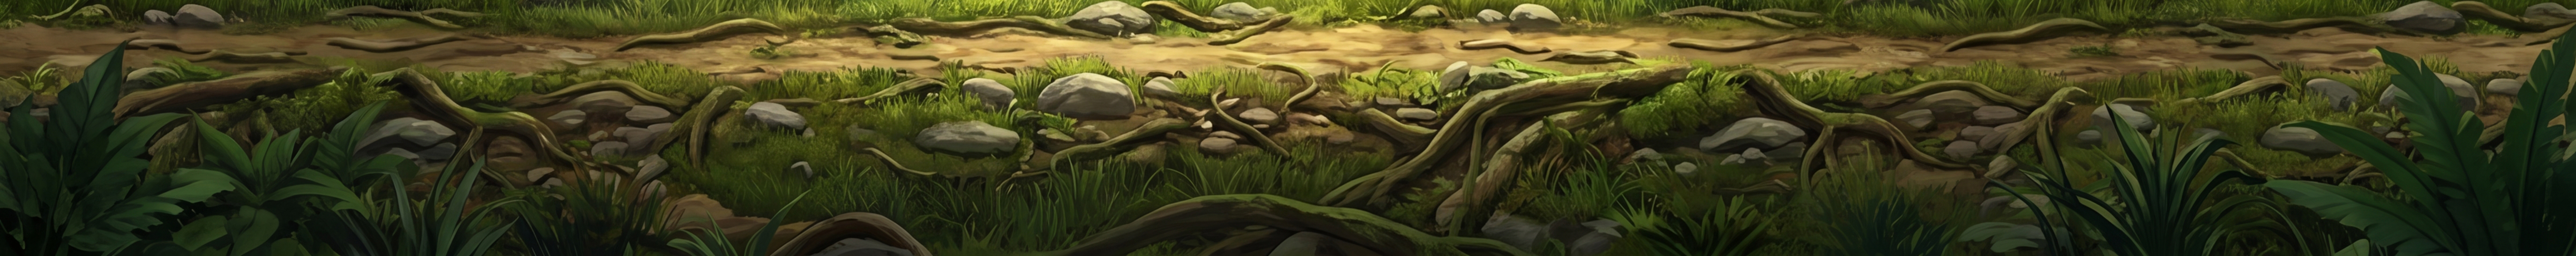
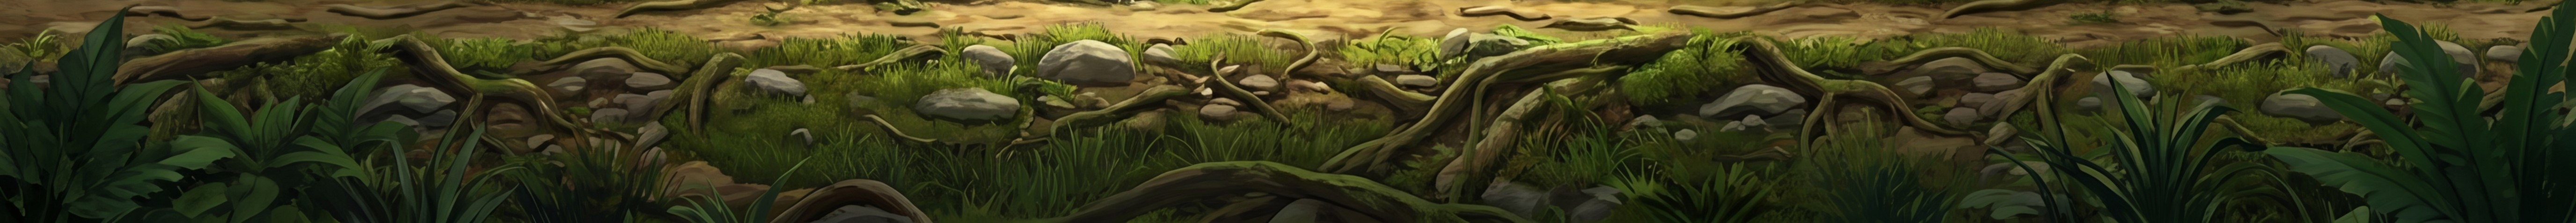
new level8

diff --git a/src/scenes/levels/Level1/L1_Scenery.js b/src/scenes/levels/Level1/L1_Scenery.js
@@ -1,0 +1,89 @@
+import { W, H } from '../../../config/GameConfig.js';
+
+// ════════════════════════════════════════════════════════════════════════════
+// L1_Scenery — Level 1's real-art background + forest-floor surface.
+//
+// BaseLevelScene builds a generic procedural/jungle_bg background and a green
+// tiled ground. Level 1 (and its bonus "fruit" scene) override those to use the
+// hand-painted art instead:
+//   • l1_bg      — full jungle scene (5504×3072) → parallax background
+//   • l1_surface — forest-floor strip (5504×547) → the walkable ground surface
+//
+// Physics is untouched: buildL1Ground re-creates the EXACT same invisible
+// collision tiles BaseLevelScene makes, then draws the new surface art over the
+// ground band. All the tuning knobs live in the constants below.
+// ════════════════════════════════════════════════════════════════════════════
+
+const BG_KEY       = 'l1_bg';
+const SURFACE_KEY  = 'l1_surface';
+const BG_SRC_H     = 3072;   // source height of l1_bg
+const SURFACE_SRC_H = 547;   // source height of l1_surface
+
+// ── Tuning knobs (adjust these to taste) ────────────────────────────────────
+const BG_PARALLAX   = 0.22;  // background scroll speed vs world (0 = static, 1 = locked to world)
+const BG_SHIFT_Y    = 0.15;  // push the background DOWN by this fraction of the screen height
+// Vertical headroom so the shifted-down image still covers the top with NO gap.
+// (Must be ≥ 1 + 2·BG_SHIFT_Y; the small buffer avoids edge slivers.)
+const BG_ZOOM       = 1 + 2 * BG_SHIFT_Y + 0.02;
+const SURFACE_SCALE = 0.16;  // ground-surface art scale (bigger = chunkier/fewer repeats)
+const SURFACE_TOP   = 404;   // screen-y of the surface's TOP edge (physics surface is y=418)
+
+export function buildL1Background(scene, worldW) {
+  // Solid fallback so the scene is never black if the image is missing.
+  scene.add.rectangle(W / 2, H / 2, W, H, 0x0a160c).setScrollFactor(0).setDepth(-15);
+
+  scene._l1Bg = [];
+  if (scene.textures.exists(BG_KEY)) {
+    // The tileSprite is as tall as ONE scaled copy of the image, so it never
+    // repeats vertically. It tiles only horizontally (for the parallax scroll).
+    // We shift it DOWN by moving the sprite itself (not by panning the texture,
+    // which would wrap and repeat). The extra height (BG_ZOOM) keeps the top
+    // covered after the shift.
+    const dispH = H * BG_ZOOM;
+    const scale = dispH / BG_SRC_H;         // uniform scale → no distortion, one vertical copy
+    const ts = scene.add.tileSprite(W / 2, H / 2 + H * BG_SHIFT_Y, W, dispH, BG_KEY)
+      .setScrollFactor(0).setDepth(-12);
+    ts.tileScaleX = ts.tileScaleY = scale;  // tilePositionY stays 0 → no vertical repeat
+    scene._l1Bg.push({ ts, factor: BG_PARALLAX });
+  }
+
+  // Subtle top darkening so the header HUD stays readable over the bright art.
+  scene.add.rectangle(W / 2, 34, W, 74, 0x000000, 0.40).setScrollFactor(0).setDepth(-5);
+}
+
+// Called every frame from the scene's _updateBgParallax override.
+export function updateL1Parallax(scene) {
+  const sx = scene.cameras.main.scrollX;
+  if (!scene._l1Bg) return;
+  for (const l of scene._l1Bg) {
+    // tilePositionX is in (unscaled) texture px → divide by tileScale so the
+    // image scrolls by `factor × camera` screen pixels.
+    l.ts.tilePositionX = sx * l.factor / l.ts.tileScaleX;
+  }
+}
+
+export function buildL1Ground(scene, config) {
+  const worldW = config.worldWidth || 2000;
+  const gaps   = config.gaps || [];
+
+  // ── Physics collision tiles — IDENTICAL to BaseLevelScene (unchanged gameplay)
+  let x = 0;
+  while (x < worldW) {
+    const inGap = gaps.some(g => x + 16 > g.x && x < g.x + g.w);
+    if (!inGap) {
+      const tile = scene.groundGroup.create(x + 16, H - 16, 'ground');
+      tile.setDisplaySize(32, 32).setAlpha(0).refreshBody();
+    }
+    x += 32;
+  }
+
+  // ── Visual forest-floor surface, per ground section (skips gaps so the water
+  //    gaps stay visible). One vertical copy of the strip (stripH matches the
+  //    scaled source height), top edge sitting at SURFACE_TOP.
+  const stripH = SURFACE_SRC_H * SURFACE_SCALE;
+  scene._groundSections(worldW, gaps).forEach(sec => {
+    const ts = scene.add.tileSprite(sec.start + sec.width / 2, SURFACE_TOP + stripH / 2, sec.width, stripH, SURFACE_KEY)
+      .setDepth(5);
+    ts.tileScaleX = ts.tileScaleY = SURFACE_SCALE;
+  });
+}

diff --git a/src/hud/premium/PremiumTheme.js b/src/hud/premium/PremiumTheme.js
@@ -149,6 +149,50 @@ export function generatePremiumHudTextures(scene) {
   }
   gen('shud_key', 40, 40);
 
+  // gold clock (40×40) — timer icon (replaces the 🕒 emoji, which renders
+  // differently on every OS/browser). Drawn, so it looks identical everywhere.
+  {
+    const c = 20;
+    g.fillStyle(T.GOLD_DK, 1); g.fillCircle(c, c, 15);
+    g.fillStyle(T.GOLD, 1);    g.fillCircle(c, c, 13);
+    g.fillStyle(0x140c04, 1);  g.fillCircle(c, c, 10.5);      // dark face
+    g.lineStyle(1, T.GOLD_HI, 0.85); g.strokeCircle(c, c, 13);
+    // tick marks (12/3/6/9)
+    g.fillStyle(T.GOLD_HI, 0.9);
+    g.fillRect(c - 0.6, c - 10, 1.2, 2); g.fillRect(c - 0.6, c + 8, 1.2, 2);
+    g.fillRect(c - 10, c - 0.6, 2, 1.2); g.fillRect(c + 8, c - 0.6, 2, 1.2);
+    // hands
+    g.lineStyle(2, T.GOLD_HI, 1); g.lineBetween(c, c, c, c - 7);
+    g.lineStyle(2, T.GOLD, 1);    g.lineBetween(c, c, c + 5, c + 3);
+    g.fillStyle(T.GOLD_HI, 1); g.fillCircle(c, c, 1.6);       // center pin
+  }
+  gen('shud_clock', 40, 40);
+
+  // gold checkered finish flag (40×40) — replaces the 🏁 emoji.
+  {
+    g.fillStyle(T.GOLD_DK, 1); g.fillRect(9, 6, 3, 30);       // pole
+    g.fillStyle(T.GOLD, 1);    g.fillRect(9, 6, 1.3, 30);     // pole shine
+    const fx = 12, fy = 7, cw = 5, ch = 4, cols = 4, rows = 3;
+    for (let r = 0; r < rows; r++) for (let col = 0; col < cols; col++) {
+      g.fillStyle((r + col) % 2 === 0 ? 0x140c04 : T.GOLD, 1);
+      g.fillRect(fx + col * cw, fy + r * ch, cw, ch);
+    }
+    g.lineStyle(1, T.GOLD_DK, 0.9); g.strokeRect(fx, fy, cols * cw, rows * ch);
+  }
+  gen('shud_flag', 40, 40);
+
+  // gold paw print (40×40) — runner / "you are here" progress marker (replaces
+  // the 🐾 / 👧 emoji).
+  {
+    const cx = 20;
+    g.fillStyle(T.GOLD_DK, 1); g.fillEllipse(cx, 27, 17, 14);  // pad shadow
+    g.fillStyle(T.GOLD, 1);    g.fillEllipse(cx, 26, 16, 13);  // main pad
+    g.fillCircle(cx - 9, 15, 4);   g.fillCircle(cx - 3, 11, 4.2);
+    g.fillCircle(cx + 3, 11, 4.2); g.fillCircle(cx + 9, 15, 4);
+    g.fillStyle(T.GOLD_HI, 0.5); g.fillEllipse(cx - 2, 23, 8, 5);  // highlight
+  }
+  gen('shud_paw', 40, 40);
+
   gen('shud_ready', 4, 4);
   g.destroy();
 }

diff --git a/src/hud/premium/PremiumFooter.js b/src/hud/premium/PremiumFooter.js
@@ -78,14 +78,19 @@ export class PremiumFooter {
       ring.fillStyle(color, 1); ring.fillCircle(bx, TY, 3.5);
       ring.fillStyle(0xffffff, 0.5); ring.fillCircle(bx - 1, TY - 1, 1.2);
       ring.lineStyle(1.5, THEME.GOLD, 1); ring.strokeCircle(bx, TY, 5.5);
-      const lbl = s.add.text(bx, TY - 15, z.label, {
-        fontFamily: 'Georgia, serif', fontSize: '8px', color: THEME.goldTxt, stroke: '#1a0f04', strokeThickness: 2
-      }).setOrigin(0.5).setScrollFactor(0).setDepth(D + 3);
+      // Label: the 🏁 finish emoji becomes a drawn gold flag (identical on every
+      // OS); plain 'Z1/Z2/Z3' stay as text (ASCII renders the same everywhere).
+      const lbl = (z.label === '🏁')
+        ? s.add.image(bx, TY - 15, 'shud_flag').setScale(0.4).setScrollFactor(0).setDepth(D + 3)
+        : s.add.text(bx, TY - 15, z.label, {
+            fontFamily: 'Georgia, serif', fontSize: '8px', color: THEME.goldTxt, stroke: '#1a0f04', strokeThickness: 2
+          }).setOrigin(0.5).setScrollFactor(0).setDepth(D + 3);
       this.c.add([glow, ring, lbl]);
     });
 
-    this._runner = s.add.text(BAR_L, TY - 2, this.runnerEmoji, { fontSize: '11px' })
-      .setScrollFactor(0).setDepth(D + 4).setOrigin(0.5, 1);
+    // Runner marker — drawn gold paw print instead of the 🐾 / 👧 emoji.
+    this._runner = s.add.image(BAR_L, TY - 2, 'shud_paw')
+      .setScale(0.4).setScrollFactor(0).setDepth(D + 4).setOrigin(0.5, 1);
     this.c.add(this._runner);
   }
 

diff --git a/src/hud/premium/PremiumHeader.js b/src/hud/premium/PremiumHeader.js
@@ -104,11 +104,14 @@ export class PremiumHeader {
     if (!this.cfg.timer) return;
     this._shadow(TMR.x, TMR.y, TMR.w, TMR.h);
     this.c.add(makePanel(s, TMR.x, TMR.y, TMR.w, TMR.h, D));
-    this.timerTxt = s.add.text(TMR.x + TMR.w / 2, TMR.y + TMR.h / 2, `🕒 ${this.cfg.timer}s`, {
+    // Drawn gold clock icon (identical on every OS) instead of the 🕒 emoji.
+    const clock = s.add.image(TMR.x + 15, TMR.y + TMR.h / 2, 'shud_clock')
+      .setScale(0.46).setScrollFactor(0).setDepth(D + 2);
+    this.timerTxt = s.add.text(TMR.x + 27, TMR.y + TMR.h / 2, `${this.cfg.timer}s`, {
       fontFamily: 'Georgia, serif', fontSize: '11px', color: THEME.goldTxt,
       stroke: '#1a0f04', strokeThickness: 2
-    }).setOrigin(0.5).setScrollFactor(0).setDepth(D + 2);
-    this.c.add(this.timerTxt);
+    }).setOrigin(0, 0.5).setScrollFactor(0).setDepth(D + 2);
+    this.c.add([clock, this.timerTxt]);
   }
 
   _buildCoinPanel() {

diff --git a/src/scenes/levels/Level1/Level1Scene.js b/src/scenes/levels/Level1/Level1Scene.js
@@ -3,10 +3,18 @@ import { W, H } from '../../../config/GameConfig.js';
 import { BaseLevelScene } from '../BaseLevelScene.js';
 import { L1HUD } from './hud/L1_HUD.js';
 import { preloadDogSkin, applyDogSkin } from './L1_DogSkin.js';
+import { buildL1Background, updateL1Parallax, buildL1Ground } from './L1_Scenery.js';
 
 // Chapter 1 — Three zones: Easy → Medium → Boss → Free Gemma
 export class Level1Scene extends BaseLevelScene {
   constructor() { super('Level1'); }
+
+  // ── Real-art scenery (jungle background + forest-floor surface) ─────────────
+  // Override the shared BaseLevelScene visuals for Level 1 only. Physics/gameplay
+  // is untouched (buildL1Ground re-creates the same invisible collision tiles).
+  _buildBackground(worldW) { buildL1Background(this, worldW); }
+  _updateBgParallax()      { updateL1Parallax(this); }
+  _buildGround(config)     { buildL1Ground(this, config); }
 
   // Load the NEW-RUN black-dog frames (visual-only swap; see L1_DogSkin.js).
   preload() {

diff --git a/src/hud/premium/PremiumHUD.js b/src/hud/premium/PremiumHUD.js
@@ -76,7 +76,7 @@ export class PremiumHUD {
     if (s._levelDone || s._isDying || s._puzzleActive || s._pauseMenuOpen) return;
     s._timerLeft = Math.max(0, s._timerLeft - 1);
     if (s._timerTxt) {
-      s._timerTxt.setText(`🕒 ${s._timerLeft}s`);
+      s._timerTxt.setText(`${s._timerLeft}s`);
       s._timerTxt.setColor(s._timerLeft <= 10 ? '#ff5a3a' : THEME.goldTxt);
     }
     if (s._timerLeft <= 0 && !s._timerFired) {
@@ -87,7 +87,7 @@ export class PremiumHUD {
       s.time.delayedCall(800, () => {
         s._timerFired = false;
         s._timerLeft  = s._timerFull;
-        if (s._timerTxt) { s._timerTxt.setText(`🕒 ${s._timerFull}s`); s._timerTxt.setColor(THEME.goldTxt); }
+        if (s._timerTxt) { s._timerTxt.setText(`${s._timerFull}s`); s._timerTxt.setColor(THEME.goldTxt); }
         s._loseLife(0.012);
       });
     }
@@ -100,7 +100,7 @@ export class PremiumHUD {
   resetTimer(seconds) {
     const s = this.scene;
     s._timerFull = seconds; s._timerLeft = seconds; s._timerFired = false;
-    if (s._timerTxt) { s._timerTxt.setText(`🕒 ${seconds}s`); s._timerTxt.setColor(THEME.goldTxt); }
+    if (s._timerTxt) { s._timerTxt.setText(`${seconds}s`); s._timerTxt.setColor(THEME.goldTxt); }
   }
   givePoints(n) {
     const s = this.scene;

diff --git a/src/scenes/levels/Level1/miniactivities/L1_FoodScene.js b/src/scenes/levels/Level1/miniactivities/L1_FoodScene.js
@@ -3,6 +3,7 @@ import { W, H } from '../../../../config/GameConfig.js';
 import { BaseLevelScene } from '../../BaseLevelScene.js';
 import { L1HUD } from '../hud/L1_HUD.js';
 import { preloadDogSkin, applyDogSkin } from '../L1_DogSkin.js';
+import { buildL1Background, updateL1Parallax, buildL1Ground } from '../L1_Scenery.js';
 
 // Bonus round — collect 5 pieces of meat across the world, solve puzzles, then
 // return to Gemma at the start to feed her — all on one continuous map.
@@ -19,6 +20,11 @@ export class L1_FoodScene extends BaseLevelScene {
   }
   _drawHPPips()          { if (this._hud) this._hud.drawHP(this._shadowHP); }
   _setAttackBtn(visible) { if (this._hud) this._hud.setAttackVisible(visible); }
+
+  // ── Real-art scenery (same jungle bg + forest-floor surface as Level 1) ─────
+  _buildBackground(worldW) { buildL1Background(this, worldW); }
+  _updateBgParallax()      { updateL1Parallax(this); }
+  _buildGround(config)     { buildL1Ground(this, config); }
 
   _givePoints(n) {
     this._points = (this._points || 0) + n;

diff --git a/src/scenes/BootScene.js b/src/scenes/BootScene.js
@@ -35,6 +35,9 @@ export class BootScene extends Phaser.Scene {
     this.load.image('key2',           'assets/images/key2.png');
     this.load.image('checkpoint_flag','assets/images/checkpoint_flag.png');
     this.load.image('l2_modal_bg',    'assets/images/Level 2/Level2_modal.png');
+    // ── Level 1 real artwork (jungle background + forest-floor surface) ──────
+    this.load.image('l1_bg',      'assets/images/level1/Level 01.jpeg');
+    this.load.image('l1_surface', 'assets/images/level1/Level 01 bottom.jpg');
     // ── Level 2 mini-game artwork ───────────────────────────────────────────
     ['l2mg_bg_catch', 'l2mg_bg_dodge', 'l2mg_bg_fireflies', 'l2mg_basket', 'l2mg_bush', 'l2mg_firefly',
      'l2cal_bg', 'l2cal_speak', 'l2cal_bark', 'l2cal_run',

diff --git a/src/main.js b/src/main.js
@@ -127,7 +127,7 @@ if (attackBtn) {
 //
 // NOTE: Phaser 3 removed the old `resolution` config option (it is a no-op now), so
 // HiDPI must be handled with `zoom` like this rather than `resolution`.
-const MAX_SUPERSAMPLE = 4;   // 800×450 → up to 3200×1800 backing buffer (tune here)
+const MAX_SUPERSAMPLE = 5;   // 800×450 → up to 4000×2250 backing buffer (tune here)
 
 function computeRenderZoom() {
   const dpr = window.devicePixelRatio || 1;